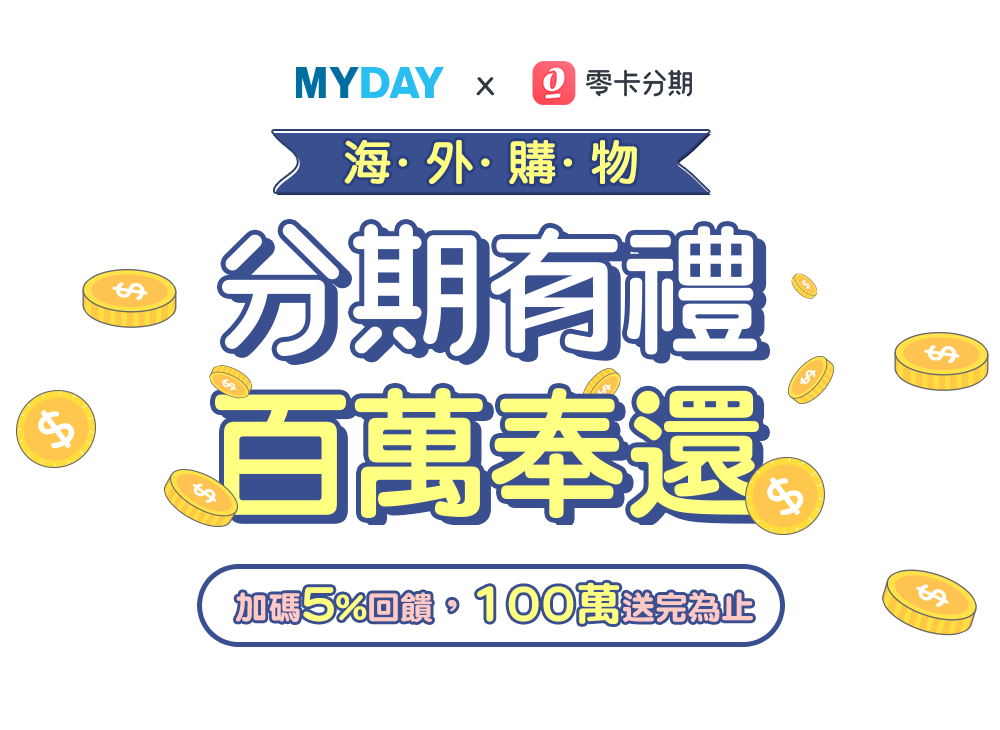
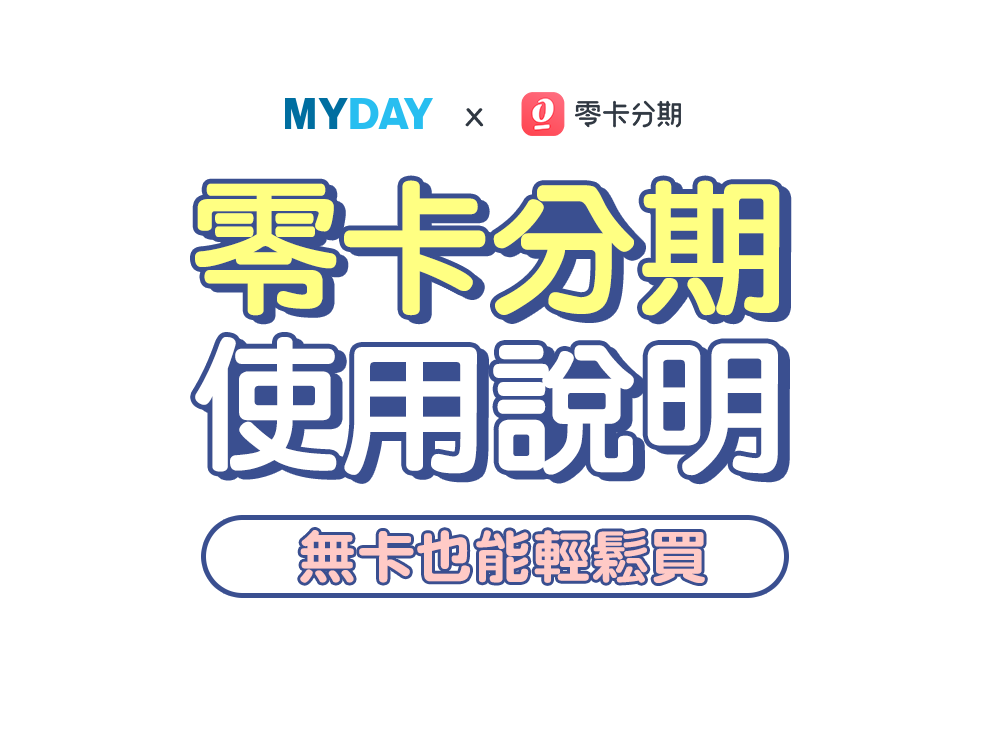
20200910

diff --git a/index.html b/index.html
@@ -3,17 +3,16 @@
 <html> 
 <head>
 <meta charset="utf-8">
-<title>MYDAY海外購物第一站｜分期有禮，百萬奉還！現在下單商品第一階段金額滿3,000元(含稅)，使用無卡分期，贈送5%回饋，送完為止。</title> 
+<title>MYDAY海外購物第一站｜分期有禮，百萬奉還！業界首創，零卡分期新體驗，商品滿額限時5%回饋，100萬送完為止。</title> 
 <meta name="keyword" content="日本代購、樂天代購、日本代標、日本雅虎代標、美國ebay代標、美國代購、美國代收、韓國代購、代標代購、美國代標、mercari代購、amazon、萬代" /> 
-<meta name="description" content="MYDAYx零卡分期最低商品金額滿3,000元(含稅)即可選擇分3期及6期！無卡族，快上買對shopping去！" />
-
+<meta name="description" content="MYDAYx中租零卡分期，早買早享受，月繳零負擔，眾多休閒娛樂、流行穿搭、汽機車改裝商品，小資族、無卡族，快上買對shopping去！" />
 <link href="css/style.css" rel="stylesheet" type="text/css"/>  
 
 
 <!--fb start--> 
-<meta property="og:title" content="MYDAY海外購物第一站｜分期有禮，百萬奉還！現在下單商品第一階段金額滿3,000元(含稅)，使用無卡分期，贈送5%回饋，送完為止。"/>
+<meta property="og:title" content="MYDAY海外購物第一站｜分期有禮，百萬奉還！業界首創，零卡分期新體驗，商品滿額限時5%回饋，100萬送完為止。"/>
 <meta property="og:type" content="website" /> 
-<meta property="og:description" content="MYDAYx零卡分期最低商品金額滿3,000元(含稅)即可選擇分3期及6期！無卡族，快上買對shopping去！"/> 
+<meta property="og:description" content="MYDAYx中租零卡分期，早買早享受，月繳零負擔，眾多休閒娛樂、流行穿搭、汽機車改裝商品，小資族、無卡族，快上買對shopping去！"/> 
 <meta property="og:url" content="https://www.myday.com.tw/a_myday/edm/menstyle/index.html"/>
 <meta property="og:image" content="https://www.myday.com.tw/a_myday/edm/menstyle/images/200x200.jpg"/>
 <meta property="fb:admins" content="141120453461"/> 
@@ -38,38 +37,16 @@ height="0" width="0" style="display:none;visibility:hidden"></iframe></noscript>
 
 <div class="topbar"><h2>MYDAY買對海外代標代購</h2></div>
 <div id="top"></div> 
-
-<div class="sidebar wow fadeInRight">
-  <ul>
-    <li><a href="https://www.myday.com.tw/a_myday/login.php?done=http%3A%2F%2Fwww.myday.com.tw%2Fa_myday%2Findex.php" target="_blank">登入會員</a></li>
-    <li><a href="https://www.myday.com.tw/a_myday/spreadsheet.php?type=jp" target="_blank">費用試算</a></li>
-    <li><a href="#a" target="_self">ACG玩家派對</a></li>
-    <li><a href="#b" target="_self">時尚流行穿搭</a></li>    
-    <li><a href="#c" target="_self">假日最IN娛樂</a></li>
-    <li><a href="#d" target="_self">日規勁裝改造</a></li>
-    <li><a href="#e" target="_self">古董名家收藏</a></li>    
-    <li><a href="#social" target="_self">關注社群</a></li>  
-  </ul>
-    <div class="top"><a href="#top"><img src="images/top.png"></a></div>  
-</div>
-
-<!--sidebar end-->
-
+ 
 
 <div class="wrap">
 
   <div class="kv">
     <div class="kv_content">
     <a href="https://www.myday.com.tw/a_myday/index.php" target="_blank">
-    <div class="logo01 wow bounceInDown"><img src="images/slogan_01.png"></div>
-    <div class="logo02 wow bounceInDown"><img src="images/slogan_02.png"></div>
-		<div class="day wow bounceIn"><img src="images/slogan_day.png"></div>
-    <div class="slogan01 wow zoomInDown" ><img src="images/slogan_03.png"></div>
-    <div class="slogan02 wow bounceInUp"><img src="images/slogan_04.png"></div>	</a>   
-		<div class="arrow"><img src="images/followme.png"></div>
-
-		<div class="kv_m wow zoomInDown"><img src="images/kv_m.png"></div>	
-               
+    <div class="logo01 wow zoomInDown"><img src="images/kv_m.png"></div>
+		<div class="kv_m wow zoomInDown"><img src="images/kv_m.png"></div>	    
+		</a>    
     </div>
 
   </div>
@@ -77,114 +54,22 @@ height="0" width="0" style="display:none;visibility:hidden"></iframe></noscript>
 
 <div class="content_01">
 
-	<div class="content">
-		<div class="title01 wow flipInX"><img src="images/title01.png"></div>
-		<ul>
-			<li class="logo_a wow fadeIn">
-				<span><a href="https://www.myday.com.tw/a_myday/category.php?api=jp_yahoo&search_option=1&keywords_q=&keywords=" target="_blank"><img src="images/logo01.jpg"></a></span>
-				<span><a href="https://www.myday.com.tw/a_myday/category.php?api=jp_rakuten&search_option=1&keywords_q=&keywords=" target="_blank"><img src="images/logo02.jpg"></a></span>
-				<span class="link"><a href="https://www.myday.com.tw/a_myday/1-all.php" target="_blank"><img src="images/shop_btn01.png"></a></span>
-			</li>
-			<li class="logo_b wow fadeIn">
-				<span><a href="https://www.myday.com.tw/a_myday/category.php?api=usa_ebay&search_option=1&keywords_q=&keywords=" target="_blank"><img src="images/logo03.jpg"></a></span>
-				<span><a href="https://www.myday.com.tw/a_myday/category.php?api=usa_amazon&search_option=1&keywords_q=&keywords=" target="_blank"><img src="images/logo04.jpg"></a></span>
-				<span class="link"><a href="https://www.myday.com.tw/a_myday/1-all-us.php" target="_blank"><img src="images/shop_btn02.png"></a></span>
-			</li>
-			<li class="logo_c wow fadeIn">
-				<span><a href="https://www.myday.com.tw/a_myday/order_buy_tip.php?shopUrl=http%3A//www.gmarket.co.kr" target="_blank"><img src="images/logo05.jpg"></a></span>
-				<span><a href="https://www.myday.com.tw/a_myday/order_buy_tip.php?shopUrl=http%3A//www.11st.co.kr" target="_blank"><img src="images/logo06.jpg"></a></span>
-				<span class="link"><a href="https://www.myday.com.tw/a_myday/1-all-korea.php" target="_blank"><img src="images/shop_btn03.png"></a></span>
-			</li>			
-		</ul>
-	</div>
 
-
-	<div class="content">
-		<div class="title02 wow flipInX"><img src="images/title02.png"></div>
-
-			<div class="event_img wow fadeIn">
-				<img src="images/event_text.png">
-				<img src="images/event_card.png">	
+			<div class="content">
+				<div class="event_btn">
+					<ul>
+					<li><a href="https://www.chailease.com.tw/0Card/Signup/Index" target="_blank"><img src="images/event_btn03.png"></a></li>
+					</ul>
+				</div>
+			<img src="images/guide_01.png">
+			<img src="images/guide_02.png">
+			<img src="images/guide_03.png">
+			<img src="images/guide_04.png">
+			<img src="images/guide_05.png">
 			</div>
-
-		<div class="event_btn wow fadeIn">
-			<ul>
-			<li><a href="https://www.myday.com.tw/a_myday/edm/0card/index.html" target="_blank"><img src="images/event_btn01.png"></a></li>
-			<li><a href="https://0card.cc/202009myday " target="_blank"><img src="images/event_btn02.png"></a></li>
-			</ul>
-		</div>
-
-	</div>
-
-
-	<div class="content">
-		<div class="title03 wow flipInX"><img src="images/title03.png"></div>
-		<div class="prod_a wow fadeIn" id="a">
-			<ul>
-			<li><a href="https://www.myday.com.tw/a_myday/category.php?api=jp_yahoo&categoryid=25888&show=2" target="_blank"><img src="images/pic01.png"></a></li>
-			<li><a href="https://www.myday.com.tw/a_myday/category.php?act=1&api=jp_yahoo&keywords=%E9%81%8A%E6%88%AF%E7%8E%8B&search_option=1&categoryid=25464&seller_new=&store=0&item_status=0&lower_price=&upper_price=&show=2" target="_blank"><img src="images/pic02.png"></a></li>
-			<li><a href="https://www.myday.com.tw/a_myday/category.php?api=jp_yahoo&categoryid=22844&show=2" target="_blank"><img src="images/pic03.png"></a></li>
-			</ul>
-		</div>
-
-		<div class="prod_b wow fadeIn" id="b">
-			<ul>
-			<li><a href="https://www.myday.com.tw/a_myday/category.php?api=jp_yahoo&categoryid=23260&show=2" target="_blank"><img src="images/pic04.png"></a></li>
-			<li><a href="https://www.myday.com.tw/a_myday/category.php?api=jp_yahoo&categoryid=23176&show=2" target="_blank"><img src="images/pic05.png"></a></li>
-			<li><a href="https://www.myday.com.tw/a_myday/category.php?api=jp_yahoo&categoryid=23200&show=2" target="_blank"><img src="images/pic06.png"></a></li>
-			</ul>
-		</div>
-
-
-		<div class="prod_c wow fadeIn" id="c">
-			<ul>
-			<li><a href="https://www.myday.com.tw/a_myday/category.php?api=jp_yahoo&categoryid=25054&show=2" target="_blank"><img src="images/pic07.png"></a></li>
-			<li><a href="https://www.myday.com.tw/a_myday/category.php?api=jp_yahoo&categoryid=25180&show=2" target="_blank"><img src="images/pic08.png"></a></li>
-			<li><a href="https://www.myday.com.tw/a_myday/category.php?api=jp_yahoo&categoryid=23684&show=2" target="_blank"><img src="images/pic09.png"></a></li>
-			</ul>
-		</div>
-
-
-
-		<div class="prod_d wow fadeIn" id="d">
-			<ul>
-			<li><a href="https://www.myday.com.tw/a_myday/category.php?api=jp_yahoo&categoryid=2084300257&show=2" target="_blank"><img src="images/pic10.png"></a></li>
-			<li><a href="https://www.myday.com.tw/a_myday/category.php?api=jp_yahoo&categoryid=2084005523&show=2" target="_blank"><img src="images/pic11.png"></a></li>
-			<li><a href="https://www.myday.com.tw/a_myday/category.php?api=jp_yahoo&categoryid=2084005257&parent=2&id=154213&order=ASC&sort=bids&show=2 " target="_blank"><img src="images/pic12.png"></a></li>
-			</ul>
-		</div>
-
-
-		<div class="prod_e wow fadeIn" id="e">
-			<ul>
-			<li><a href="https://www.myday.com.tw/a_myday/category.php?api=jp_yahoo&categoryid=23640&show=2" target="_blank"><img src="images/pic10.png"></a></li>
-			<li><a href="https://www.myday.com.tw/a_myday/category.php?api=jp_yahoo&keywords=%E9%BE%8D%E6%96%87%E5%A0%82%20%E9%89%84%E7%93%B6&categoryid=2084195327&parent=2&id=147757&show=2" target="_blank"><img src="images/pic11.png"></a></li>
-			<li><a href="https://www.myday.com.tw/a_myday/category.php?api=jp_yahoo&categoryid=20000&keywords=%E7%85%8E%E8%8C%B6%E5%99%A8&show=2" target="_blank"><img src="images/pic12.png"></a></li>
-			</ul>
-		</div>
-
-
-	</div>
-
-
-	<div class="content">
-		<div class="notice"></div><img src="images/notice.jpg">
-
-
-			  <div class="social" id="social">
-      <ul>
-        <li><a href="https://www.facebook.com/mydayfans/" target="_blank"><img src="images/icon_fb.png"><span>成為粉絲</span></a></li>
-        <li><a href="https://www.instagram.com/myday.ig/" target="_blank"><img src="images/icon_ig.png"><span>追蹤IG</span></a></li>
-        <li><a href="https://line.me/R/ti/p/@maw5443y" target="_blank"><img src="images/icon_line.png"><span>成為好友</span></a></li>      
-      </ul>    
-  		</div>
-
-	</div>
-
 
 
 </div>
-
 
 
 

diff --git a/css/style.css b/css/style.css
@@ -114,7 +114,6 @@ html[xmlns] .clearfix{display:block}
 		#gotop , .sidebar{
 			display: none;
 		}
-
 	}
 
 
@@ -124,6 +123,7 @@ html[xmlns] .clearfix{display:block}
   background: url(../images/kv_bg.jpg) no-repeat;
   height: auto;
   display: block;
+   background-position:top center;
 }
 
 
@@ -182,10 +182,10 @@ html[xmlns] .clearfix{display:block}
 	display: block;
 	margin: 0 auto;
 	position: relative;
-	top: 130px;
-	left: 10px;
-	width: 430px;
-	height: 55px;
+	top: 90px;
+	left: 0px;
+	width: 1000px;
+	height: 730px;
 }
 
 .logo02{
@@ -248,6 +248,7 @@ html[xmlns] .clearfix{display:block}
 	margin: 0 auto;
 	position: relative;
 	display: table;
+	margin-bottom: 100px;
 }
 
 
@@ -371,7 +372,7 @@ html[xmlns] .clearfix{display:block}
 	width: 1000px;
 	position: absolute;
 	z-index: 999;
-	bottom: 15px;
+	top: 1480px;
 	margin:0 auto;
 }
 
